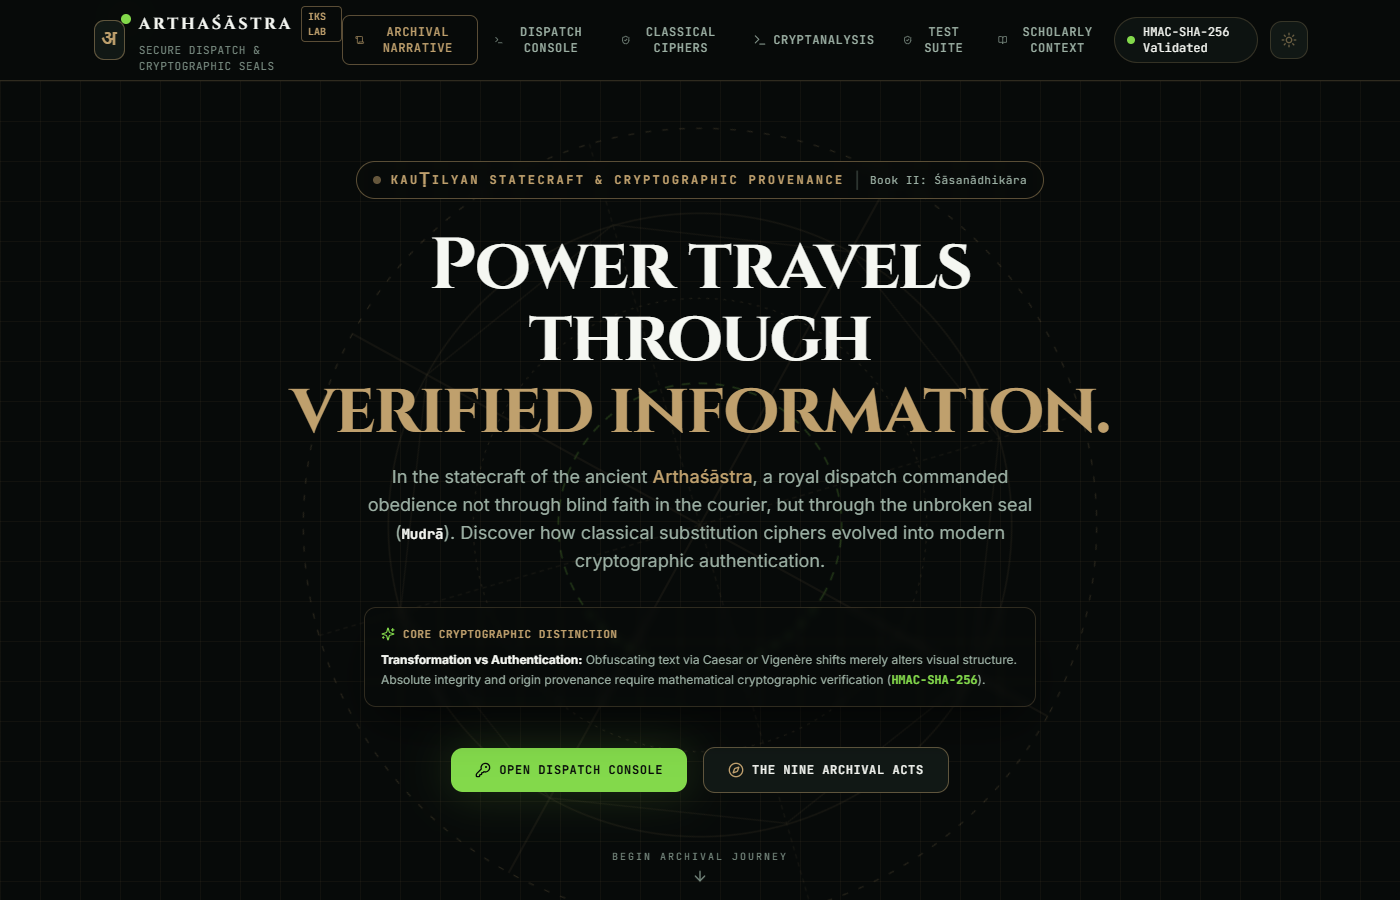
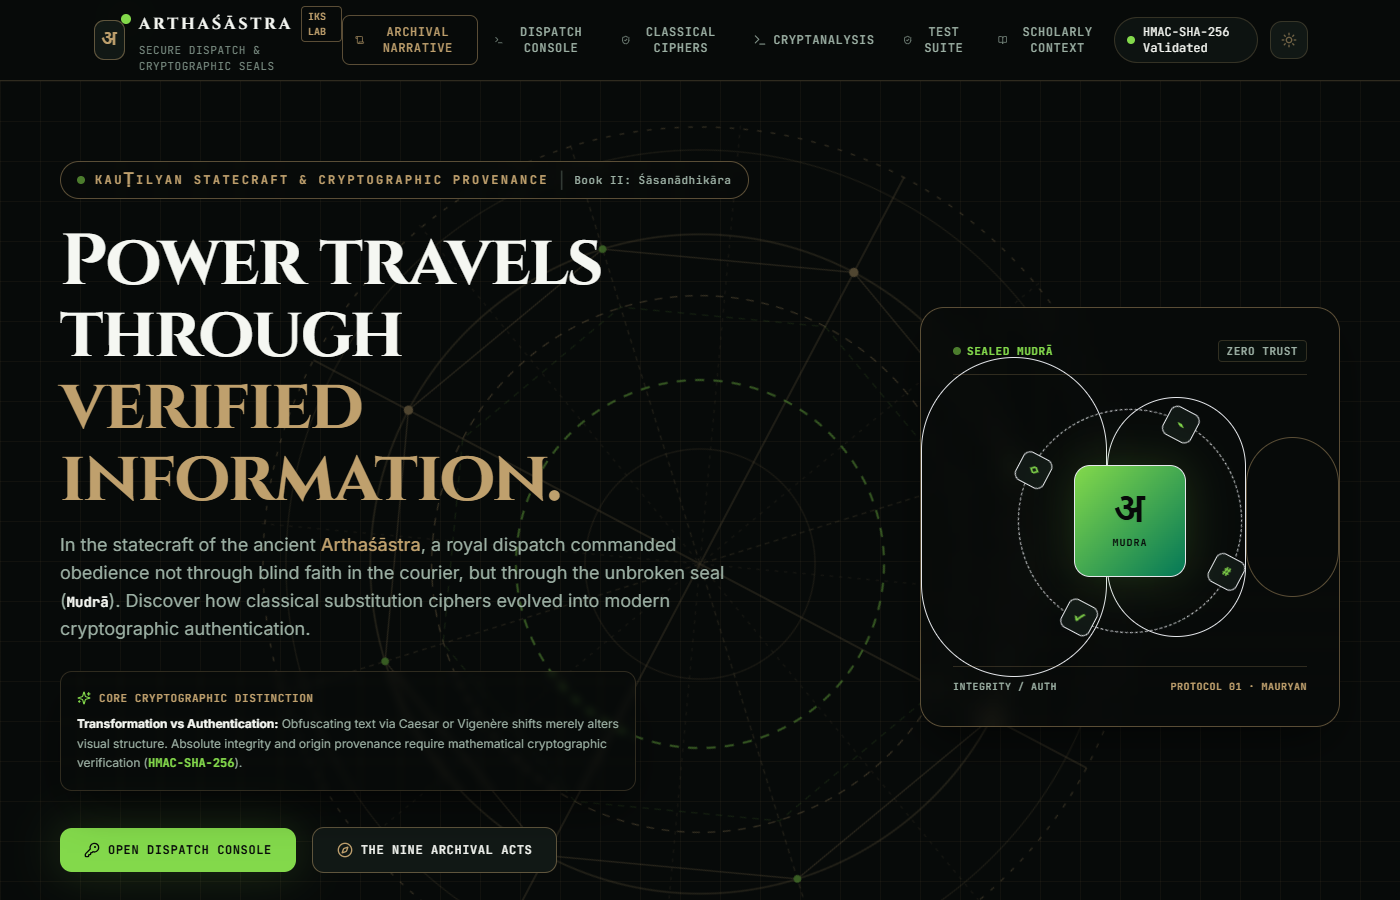
feat(hero): restore and enhance signature Mudrā circular seal visualization and luminous Vedic chakra background

diff --git a/src/components/HeroArchive.tsx b/src/components/HeroArchive.tsx
@@ -1,7 +1,7 @@
 'use client';
 
 import React from 'react';
-import { KeyRound, Compass, ArrowDown, Sparkles, ShieldCheck } from 'lucide-react';
+import { KeyRound, Compass, ArrowDown, Sparkles, ShieldCheck, Lock, Activity } from 'lucide-react';
 
 interface HeroArchiveProps {
   onEnterLab: () => void;
@@ -12,109 +12,238 @@ export const HeroArchive: React.FC<HeroArchiveProps> = ({ onEnterLab, onExploreN
   return (
     <section
       id="hero"
-      className="relative min-h-[90vh] flex items-center justify-center overflow-hidden archival-grid py-20 px-4 sm:px-6 lg:px-8 border-b border-theme-border"
+      className="relative min-h-[92vh] flex items-center justify-center overflow-hidden archival-grid py-16 sm:py-20 px-4 sm:px-6 lg:px-8 border-b border-theme-border transition-colors duration-200"
     >
-      {/* Background Architectural & Cosmic Geometry SVG */}
-      <div className="absolute inset-0 pointer-events-none flex items-center justify-center opacity-30 dark:opacity-20 transition-opacity duration-300">
+      {/* =========================================================================
+          GRAND LUMINOUS BACKGROUND CELESTIAL & VEDIC CHAKRA GEOMETRY (SVG)
+          ========================================================================= */}
+      <div className="absolute inset-0 pointer-events-none flex items-center justify-center opacity-60 dark:opacity-40 transition-opacity duration-300">
+        {/* Ambient Radial Core Halo */}
+        <div className="absolute w-[600px] h-[600px] rounded-full bg-theme-bronze/10 dark:bg-theme-bronze/5 filter blur-3xl pointer-events-none" />
+        <div className="absolute w-[400px] h-[400px] rounded-full bg-theme-seal/10 dark:bg-theme-seal/5 filter blur-2xl pointer-events-none" />
+
         <svg
-          className="w-[850px] h-[850px] animate-spin-slow"
+          className="w-[750px] h-[750px] sm:w-[920px] sm:h-[920px] animate-spin-slow text-theme-bronze origin-center"
           viewBox="0 0 600 600"
           fill="none"
           xmlns="http://www.w3.org/2000/svg"
           aria-hidden="true"
         >
-          {/* Concentric Vedic Geometric Rings */}
-          <circle cx="300" cy="300" r="280" stroke="var(--accent-bronze)" strokeWidth="0.75" strokeDasharray="4 8" />
-          <circle cx="300" cy="300" r="220" stroke="var(--border-strong)" strokeWidth="1" />
-          <circle cx="300" cy="300" r="160" stroke="var(--accent-bronze)" strokeWidth="0.5" strokeDasharray="2 4" />
-          <circle cx="300" cy="300" r="100" stroke="var(--seal-green)" strokeWidth="1.2" strokeDasharray="6 6" />
+          {/* Outer Astrological Coordinate Ring with Degree Ticks */}
+          <circle cx="300" cy="300" r="285" stroke="currentColor" strokeWidth="0.8" strokeDasharray="3 6" className="opacity-60" />
+          <circle cx="300" cy="300" r="270" stroke="var(--border-strong)" strokeWidth="0.7" className="opacity-70" />
 
-          {/* Symmetrical Cardinal Lines */}
-          <line x1="20" y1="300" x2="580" y2="300" stroke="var(--accent-bronze)" strokeWidth="0.5" />
-          <line x1="300" y1="20" x2="300" y2="580" stroke="var(--accent-bronze)" strokeWidth="0.5" />
-          <line x1="102" y1="102" x2="498" y2="498" stroke="var(--accent-bronze)" strokeWidth="0.3" strokeDasharray="3 3" />
-          <line x1="102" y1="498" x2="498" y2="102" stroke="var(--accent-bronze)" strokeWidth="0.3" strokeDasharray="3 3" />
+          {/* Symmetrical Cardinal Compass Spoke Lines (16 Rays) */}
+          <line x1="15" y1="300" x2="585" y2="300" stroke="currentColor" strokeWidth="0.6" className="opacity-70" />
+          <line x1="300" y1="15" x2="300" y2="585" stroke="currentColor" strokeWidth="0.6" className="opacity-70" />
+          <line x1="98" y1="98" x2="502" y2="502" stroke="currentColor" strokeWidth="0.5" strokeDasharray="3 3" className="opacity-50" />
+          <line x1="98" y1="502" x2="502" y2="98" stroke="currentColor" strokeWidth="0.5" strokeDasharray="3 3" className="opacity-50" />
+          <line x1="190" y1="35" x2="410" y2="565" stroke="currentColor" strokeWidth="0.4" strokeDasharray="2 4" className="opacity-40" />
+          <line x1="410" y1="35" x2="190" y2="565" stroke="currentColor" strokeWidth="0.4" strokeDasharray="2 4" className="opacity-40" />
+          <line x1="35" y1="190" x2="565" y2="410" stroke="currentColor" strokeWidth="0.4" strokeDasharray="2 4" className="opacity-40" />
+          <line x1="35" y1="410" x2="565" y2="190" stroke="currentColor" strokeWidth="0.4" strokeDasharray="2 4" className="opacity-40" />
 
-          {/* Intersecting Octagon */}
+          {/* Intermediate Vedic Boundary Ring */}
+          <circle cx="300" cy="300" r="215" stroke="var(--border-strong)" strokeWidth="1.2" className="opacity-80" />
+          <circle cx="300" cy="300" r="175" stroke="currentColor" strokeWidth="0.75" strokeDasharray="5 5" className="opacity-70" />
+
+          {/* Inner Sacred Green Mudrā Horizon Ring */}
+          <circle cx="300" cy="300" r="120" stroke="var(--seal-green)" strokeWidth="1.4" strokeDasharray="6 6" className="opacity-90" />
+          <circle cx="300" cy="300" r="75" stroke="var(--border-strong)" strokeWidth="0.8" className="opacity-60" />
+
+          {/* Intersecting Octagon & Diamond Lattice */}
           <polygon
-            points="300,80 455,144 520,300 455,455 300,520 144,455 80,300 144,144"
-            stroke="var(--border-strong)"
+            points="300,85 452,148 515,300 452,452 300,515 148,452 85,300 148,148"
+            stroke="currentColor"
             strokeWidth="0.75"
+            className="opacity-50"
           />
+          <polygon
+            points="300,125 424,176 475,300 424,424 300,475 176,424 125,300 176,176"
+            stroke="var(--seal-green)"
+            strokeWidth="0.5"
+            strokeDasharray="4 4"
+            className="opacity-40"
+          />
+
+          {/* 8 Cardinal Sacred Node Anchor Points */}
+          <circle cx="300" cy="85" r="3" fill="currentColor" />
+          <circle cx="300" cy="515" r="3" fill="currentColor" />
+          <circle cx="85" cy="300" r="3" fill="currentColor" />
+          <circle cx="515" cy="300" r="3" fill="currentColor" />
+          <circle cx="148" cy="148" r="2.5" fill="var(--seal-green)" />
+          <circle cx="452" cy="148" r="2.5" fill="var(--seal-green)" />
+          <circle cx="148" cy="452" r="2.5" fill="var(--seal-green)" />
+          <circle cx="452" cy="452" r="2.5" fill="var(--seal-green)" />
         </svg>
       </div>
 
-      {/* Atmospheric Vignette Gradient */}
+      {/* Atmospheric Soft Vignette */}
       <div className="absolute inset-0 bg-radial-radial from-transparent via-theme-canvas/40 to-theme-canvas pointer-events-none" />
 
-      <div className="relative max-w-4xl mx-auto text-center z-10 space-y-8">
-        {/* Curated Archival Eyebrow */}
-        <div className="inline-flex items-center space-x-2.5 px-4 py-1.5 rounded-full border border-theme-border-strong bg-theme-surface/90 backdrop-blur shadow-sm">
-          <span className="w-2 h-2 rounded-full bg-theme-bronze animate-pulse" />
-          <span className="text-xs font-mono tracking-[0.2em] uppercase text-theme-bronze font-bold">
-            Kauṭilyan Statecraft & Cryptographic Provenance
-          </span>
-          <span className="text-theme-muted opacity-40">|</span>
-          <span className="text-[11px] font-mono tracking-wider text-theme-secondary">
-            Book II: Śāsanādhikāra
-          </span>
-        </div>
+      {/* =========================================================================
+          HERO INTERFACE CONTENT (2-COLUMN ARCHITECTURAL GRID)
+          ========================================================================= */}
+      <div className="relative max-w-7xl mx-auto z-10 w-full">
+        <div className="grid grid-cols-1 lg:grid-cols-12 gap-10 lg:gap-12 items-center">
+          
+          {/* LEFT COLUMN: Headings, Epistemology, Directives (7 Cols) */}
+          <div className="lg:col-span-7 text-center lg:text-left space-y-7">
+            {/* Curated Archival Eyebrow */}
+            <div className="inline-flex items-center space-x-2.5 px-4 py-1.5 rounded-full border border-theme-border-strong bg-theme-surface/90 backdrop-blur shadow-sm">
+              <span className="w-2 h-2 rounded-full bg-theme-seal animate-pulse" />
+              <span className="text-xs font-mono tracking-[0.2em] uppercase text-theme-bronze font-bold">
+                Kauṭilyan Statecraft & Cryptographic Provenance
+              </span>
+              <span className="text-theme-muted opacity-40">|</span>
+              <span className="text-[11px] font-mono tracking-wider text-theme-secondary font-medium">
+                Book II: Śāsanādhikāra
+              </span>
+            </div>
 
-        {/* Master Headline (Act I: The Archive) */}
-        <div className="space-y-4">
-          <h1 className="font-editorial text-4xl sm:text-6xl lg:text-7xl font-bold tracking-tight text-theme-primary leading-[1.08]">
-            Power travels through <br />
-            <span className="text-theme-bronze">
-              verified information.
-            </span>
-          </h1>
-          <p className="max-w-2xl mx-auto text-base sm:text-lg text-theme-secondary leading-relaxed font-sans">
-            In the statecraft of the ancient <em className="text-theme-bronze not-italic font-medium">Arthaśāstra</em>, 
-            a royal dispatch commanded obedience not through blind faith in the courier, but through the unbroken seal 
-            (<span className="font-mono text-sm text-theme-primary font-bold">Mudrā</span>). 
-            Discover how classical substitution ciphers evolved into modern cryptographic authentication.
-          </p>
-        </div>
+            {/* Master Headline (Act I: The Archive) */}
+            <div className="space-y-4">
+              <h1 className="font-editorial text-4xl sm:text-5xl lg:text-6xl xl:text-7xl font-bold tracking-tight text-theme-primary leading-[1.08]">
+                Power travels through <br />
+                <span className="text-theme-bronze">
+                  verified information.
+                </span>
+              </h1>
+              <p className="max-w-2xl mx-auto lg:mx-0 text-base sm:text-lg text-theme-secondary leading-relaxed font-sans">
+                In the statecraft of the ancient <em className="text-theme-bronze not-italic font-medium">Arthaśāstra</em>, 
+                a royal dispatch commanded obedience not through blind faith in the courier, but through the unbroken seal 
+                (<span className="font-mono text-sm text-theme-primary font-bold">Mudrā</span>). 
+                Discover how classical substitution ciphers evolved into modern cryptographic authentication.
+              </p>
+            </div>
 
-        {/* The Core Epistemological Distinction Box */}
-        <div className="max-w-2xl mx-auto p-4 rounded-xl border border-theme-border bg-theme-surface/80 backdrop-blur-sm text-left text-xs sm:text-sm space-y-1.5 shadow-card">
-          <div className="flex items-center space-x-2 text-theme-bronze font-mono uppercase tracking-wider text-[11px] font-bold">
-            <Sparkles className="w-3.5 h-3.5 text-theme-seal" />
-            <span>Core Cryptographic Distinction</span>
+            {/* Core Epistemological Distinction Box */}
+            <div className="max-w-xl mx-auto lg:mx-0 p-4 rounded-xl border border-theme-border bg-theme-surface/85 backdrop-blur-sm text-left text-xs sm:text-sm space-y-1.5 shadow-card">
+              <div className="flex items-center space-x-2 text-theme-bronze font-mono uppercase tracking-wider text-[11px] font-bold">
+                <Sparkles className="w-3.5 h-3.5 text-theme-seal" />
+                <span>Core Cryptographic Distinction</span>
+              </div>
+              <p className="text-xs leading-relaxed text-theme-secondary">
+                <strong className="text-theme-primary">Transformation vs Authentication:</strong> Obfuscating text via Caesar or Vigenère shifts merely alters visual structure. Absolute integrity and origin provenance require mathematical cryptographic verification (<span className="font-mono text-theme-seal font-bold">HMAC-SHA-256</span>).
+              </p>
+            </div>
+
+            {/* Action Directives */}
+            <div className="flex flex-wrap items-center justify-center lg:justify-start gap-4 pt-2">
+              <button
+                onClick={onEnterLab}
+                className="px-6 py-3.5 rounded-xl bg-theme-seal text-theme-canvas font-mono font-bold text-xs tracking-wider uppercase shadow-seal hover:opacity-90 hover:scale-[1.02] active:scale-[0.98] transition-all flex items-center space-x-2"
+              >
+                <KeyRound className="w-4 h-4" />
+                <span>Open Dispatch Console</span>
+              </button>
+
+              <button
+                onClick={onExploreNarrative}
+                className="px-6 py-3.5 rounded-xl border border-theme-border-strong bg-theme-surface hover:bg-theme-subtle text-theme-primary font-mono font-medium text-xs tracking-wider uppercase transition-all flex items-center space-x-2 shadow-sm"
+              >
+                <Compass className="w-4 h-4 text-theme-bronze" />
+                <span>The Nine Archival Acts</span>
+              </button>
+            </div>
           </div>
-          <p className="text-xs leading-relaxed text-theme-secondary">
-            <strong className="text-theme-primary">Transformation vs Authentication:</strong> Obfuscating text via Caesar or Vigenère shifts merely alters visual structure. Absolute integrity and origin provenance require mathematical cryptographic verification (<span className="font-mono text-theme-seal font-bold">HMAC-SHA-256</span>).
-          </p>
+
+          {/* RIGHT COLUMN: THE SIGNATURE SECURE DISPATCH CIRCULAR SEAL VISUAL (5 Cols) */}
+          <div className="lg:col-span-5 flex justify-center lg:justify-end">
+            <div
+              className="relative w-full max-w-[380px] sm:max-w-[420px] rounded-3xl border border-theme-border-strong bg-theme-surface/90 backdrop-blur-md p-6 sm:p-8 shadow-card flex flex-col items-center justify-between min-h-[380px] sm:min-h-[420px] overflow-hidden group"
+              aria-label="Kauṭilyan Secure Dispatch Mudrā Seal Visualization"
+            >
+              {/* Internal Concentric Radial Aura */}
+              <div className="absolute inset-0 bg-radial-radial from-theme-seal/15 via-transparent to-transparent pointer-events-none" />
+
+              {/* Background Circular Radar Watermark */}
+              <div className="absolute inset-0 flex items-center justify-center pointer-events-none">
+                <div className="w-[320px] h-[320px] rounded-full border border-theme-seal/20" />
+                <div className="w-[240px] h-[240px] rounded-full border border-theme-seal/30" />
+                <div className="w-[160px] h-[160px] rounded-full border border-theme-border-strong" />
+              </div>
+
+              {/* Top Card Eyebrow Metadata */}
+              <div className="w-full flex items-center justify-between text-[11px] font-mono uppercase tracking-wider text-theme-muted z-10 border-b border-theme-border pb-3">
+                <span className="flex items-center space-x-1.5 text-theme-seal font-bold">
+                  <span className="w-2 h-2 rounded-full bg-theme-seal animate-pulse" />
+                  <span>Sealed Mudrā</span>
+                </span>
+                <span className="px-2 py-0.5 rounded bg-theme-inset border border-theme-border text-theme-secondary font-semibold">
+                  Zero Trust
+                </span>
+              </div>
+
+              {/* CENTER CIRCULAR ORBIT & SACRED CORE MONOGRAM */}
+              <div className="relative my-8 flex items-center justify-center z-10">
+                {/* Rotating Dashed Orbital Track */}
+                <div className="w-48 h-48 sm:w-56 sm:h-56 rounded-full border border-dashed border-theme-seal/60 animate-spin-slow flex items-center justify-center relative">
+                  {/* Orbit Node 1: Top (Transmission Dhvani) */}
+                  <div
+                    className="absolute -top-3.5 left-1/2 -translate-x-1/2 w-8 h-8 rounded-lg bg-theme-surface border border-theme-seal/80 shadow-sm flex items-center justify-center text-theme-seal text-xs font-mono font-bold"
+                    title="Dhvani: Signal Transmission"
+                  >
+                    ⌁
+                  </div>
+
+                  {/* Orbit Node 2: Bottom (HMAC Provenance Verified) */}
+                  <div
+                    className="absolute -bottom-3.5 left-1/2 -translate-x-1/2 w-8 h-8 rounded-lg bg-theme-surface border border-theme-seal/80 shadow-sm flex items-center justify-center text-theme-seal text-xs font-mono font-bold"
+                    title="Satya: Mathematical Verification"
+                  >
+                    ✓
+                  </div>
+
+                  {/* Orbit Node 3: Right (Cryptographic Digest) */}
+                  <div
+                    className="absolute top-1/2 -right-3.5 -translate-y-1/2 w-8 h-8 rounded-lg bg-theme-surface border border-theme-seal/80 shadow-sm flex items-center justify-center text-theme-seal text-xs font-mono font-bold"
+                    title="Śāstrīya: 256-Bit Digest"
+                  >
+                    #
+                  </div>
+
+                  {/* Orbit Node 4: Left (Royal Diamond Mudrā) */}
+                  <div
+                    className="absolute top-1/2 -left-3.5 -translate-y-1/2 w-8 h-8 rounded-lg bg-theme-surface border border-theme-seal/80 shadow-sm flex items-center justify-center text-theme-seal text-xs font-mono font-bold"
+                    title="Gūḍha: Sovereign Mudrā"
+                  >
+                    ◇
+                  </div>
+                </div>
+
+                {/* Central Royal Core Badge (Sanskrit 'अ' Monogram) */}
+                <div className="absolute w-24 h-24 sm:w-28 sm:h-28 rounded-2xl bg-gradient-to-br from-theme-seal to-emerald-700 text-theme-canvas flex flex-col items-center justify-center shadow-seal border border-theme-bronze/40 group-hover:scale-105 transition-transform duration-300">
+                  <span className="font-editorial text-3xl sm:text-4xl font-bold tracking-wider leading-none text-theme-canvas drop-shadow-sm">
+                    अ
+                  </span>
+                  <span className="text-[10px] font-mono tracking-widest uppercase font-bold text-theme-canvas/90 mt-1">
+                    MUDRA
+                  </span>
+                </div>
+              </div>
+
+              {/* Bottom Card Labels */}
+              <div className="w-full flex items-center justify-between text-[10px] font-mono uppercase tracking-wider text-theme-muted z-10 border-t border-theme-border pt-3">
+                <span className="text-theme-secondary font-semibold">Integrity / Auth</span>
+                <span className="text-theme-bronze font-bold">Protocol 01 · Mauryan</span>
+              </div>
+            </div>
+          </div>
+
         </div>
 
-        {/* Action Directives */}
-        <div className="flex flex-wrap items-center justify-center gap-4 pt-2">
-          <button
-            onClick={onEnterLab}
-            className="px-6 py-3.5 rounded-xl bg-theme-seal text-theme-canvas font-mono font-bold text-xs tracking-wider uppercase shadow-seal hover:opacity-90 hover:scale-[1.02] active:scale-[0.98] transition-all flex items-center space-x-2"
-          >
-            <KeyRound className="w-4 h-4" />
-            <span>Open Dispatch Console</span>
-          </button>
-
+        {/* Global Section Scroll Indicator */}
+        <div className="pt-10 sm:pt-14 flex justify-center">
           <button
             onClick={onExploreNarrative}
-            className="px-6 py-3.5 rounded-xl border border-theme-border-strong bg-theme-surface hover:bg-theme-subtle text-theme-primary font-mono font-medium text-xs tracking-wider uppercase transition-all flex items-center space-x-2 shadow-sm"
-          >
-            <Compass className="w-4 h-4 text-theme-bronze" />
-            <span>The Nine Archival Acts</span>
-          </button>
-        </div>
-
-        {/* Scroll Indicator */}
-        <div className="pt-6 flex justify-center">
-          <button
-            onClick={onExploreNarrative}
-            className="group flex flex-col items-center space-y-2 text-theme-muted hover:text-theme-bronze transition-colors"
+            className="group flex flex-col items-center space-y-2 text-theme-muted hover:text-theme-bronze transition-colors focus:outline-none"
             aria-label="Scroll to narrative"
           >
-            <span className="text-[10px] font-mono uppercase tracking-[0.2em]">Begin Archival Journey</span>
-            <ArrowDown className="w-4 h-4 animate-bounce group-hover:text-theme-bronze" />
+            <span className="text-[10px] font-mono uppercase tracking-[0.25em] font-semibold">
+              Begin Archival Journey
+            </span>
+            <ArrowDown className="w-4 h-4 animate-bounce text-theme-bronze" />
           </button>
         </div>
       </div>
